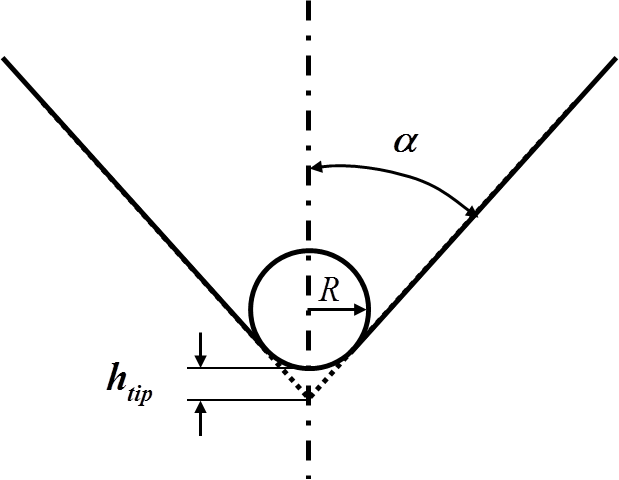
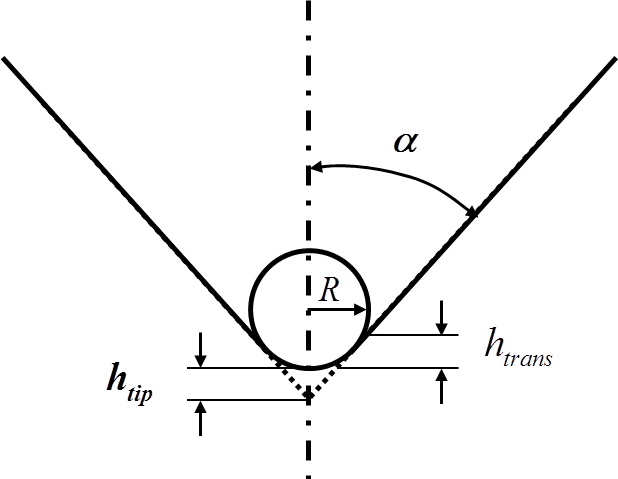
updated doc + picture

diff --git a/doc/models.rst b/doc/models.rst
@@ -77,7 +77,42 @@ Find here the |matlab| function to plot the projected ared of 3-sided pyramidal 
 Find here the |matlab| function to plot the the projected ared of 4-sided pyramidal indenter in function of indentation depth :
 `projectedArea_4sidePyramid.m <https://github.com/DavidMercier/NIMS/blob/master/matlab_code/function_area/projectedArea_4sidePyramid.m>`_.
    
-Load-Displacement curves
+Practically, perfect conical indenters (no tip defect) don't really exist and 
+they are usually defined as cono-spherical indenters with a tip defect :math:`h_\text{tip}` (see following scheme).
+
+.. figure:: ./_pictures/conospherical_indenter.png
+   :name: conospherical_indenter
+   :scale: 50 %
+   :align: center
+   
+   *Scheme of a cono-spherical indenter.*
+
+The radius :math:`R` of the spherical part is calculated from the tip defect :math:`h_\text{tip}`
+and the cone angle :math:`\alpha`, using the following equation. For Berkovich, Vickers and Cube-Corner
+indenters, the equivalent cone angle is used to set the cone angle.
+
+    .. math:: R = \frac{h_\text{tip}}{\frac{1}{sin(\alpha)} - 1}
+            :label: tip_radius
+
+In case of a perfect conical indenter (:math:`h_\text{tip} = 0\text{nm}`), a tip defect of 1nm giving a radius of :math:`R = 1.6\text{nm}` is set into the Python file. Defining a cono-spherical tip avoids the geometrical singularity at the apex of the
+perfect conical indenter, which would imply an infinite stress at the contact interface. But, any non-zero positive value for the tip radius can be set into the GUI. 
+
+The transition depth :math:`h_\text{trans}` between the spherical and the conical parts of a cono-spherical indenter,
+is calculated from the followig equation:
+
+    .. math:: h_\text{trans} = R(1-sin(\alpha))
+            :label: transition_depth
+			
+Find here the |matlab| function to calculate the tip radius:
+`tipRadius.m <https://github.com/DavidMercier/NIMS/blob/master/matlab_code/fem/tipRadius.m>`_.
+
+Find here the |matlab| function to calculate the transition depth:
+`transitionDepth.m <https://github.com/DavidMercier/NIMS/blob/master/matlab_code/function_area/transitionDepth.m>`_.
+
+Find here the |matlab| function to calculate the tip defect:
+`tipDefect.m <https://github.com/DavidMercier/NIMS/blob/master/matlab_code/function_area/tipDefect.m>`_.
+   
+   Load-Displacement curves
 ---------------------------
 
 In this first part, only quasistatic (or monotonic) nanoindentation is considered, when a load is applied and removed to a sample.

diff --git a/doc/python_abaqus.rst b/doc/python_abaqus.rst
@@ -60,6 +60,21 @@ indenters, the equivalent cone angle is used to set the cone angle.
 In case of a perfect conical indenter (:math:`h_\text{tip} = 0\text{nm}`), a tip defect of 1nm giving a radius of :math:`R = 1.6\text{nm}` is set into the Python file. Defining a cono-spherical tip avoids the geometrical singularity at the apex of the
 perfect conical indenter, which would imply an infinite stress at the contact interface. But, any non-zero positive value for the tip radius can be set into the GUI. 
 
+The transition depth :math:`h_\text{trans}` between the spherical and the conical parts of a cono-spherical indenter,
+is calculated from the followig equation:
+
+    .. math:: h_\text{trans} = R(1-sin(\alpha))
+            :label: transition_depth
+			
+Find here the |matlab| function to calculate the tip radius:
+`tipRadius.m <https://github.com/DavidMercier/NIMS/blob/master/matlab_code/fem/tipRadius.m>`_.
+
+Find here the |matlab| function to calculate the transition depth:
+`transitionDepth.m <https://github.com/DavidMercier/NIMS/blob/master/matlab_code/function_area/transitionDepth.m>`_.
+
+Find here the |matlab| function to calculate the tip defect:
+`tipDefect.m <https://github.com/DavidMercier/NIMS/blob/master/matlab_code/function_area/tipDefect.m>`_.
+
 Mesh
 ---------------------------------
 
